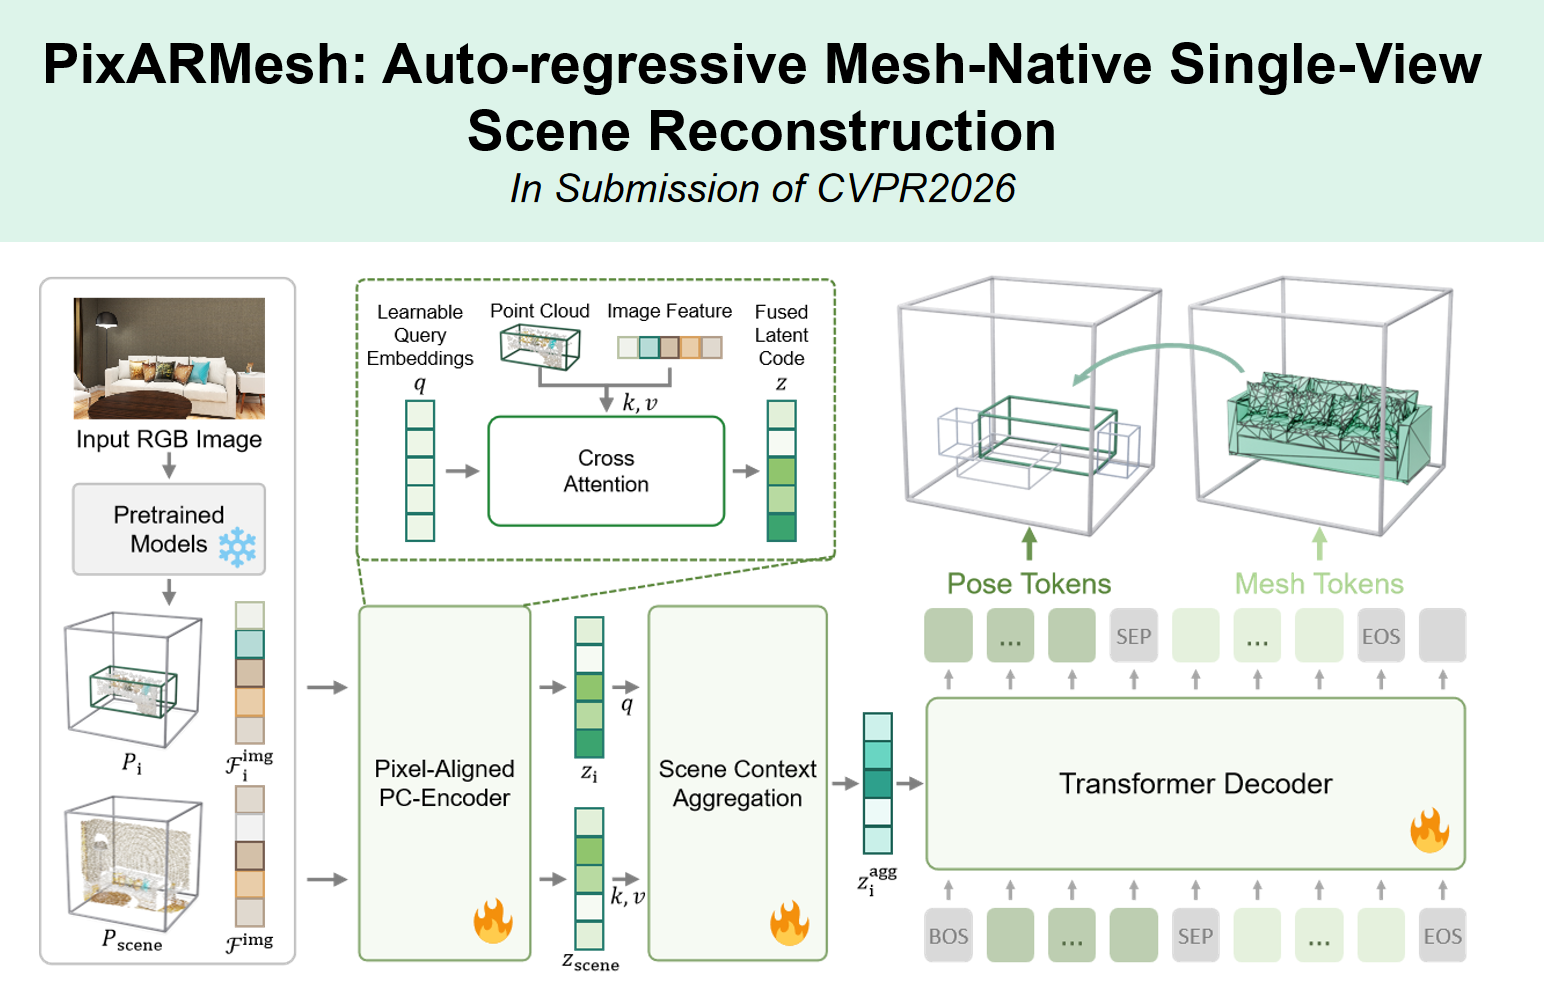
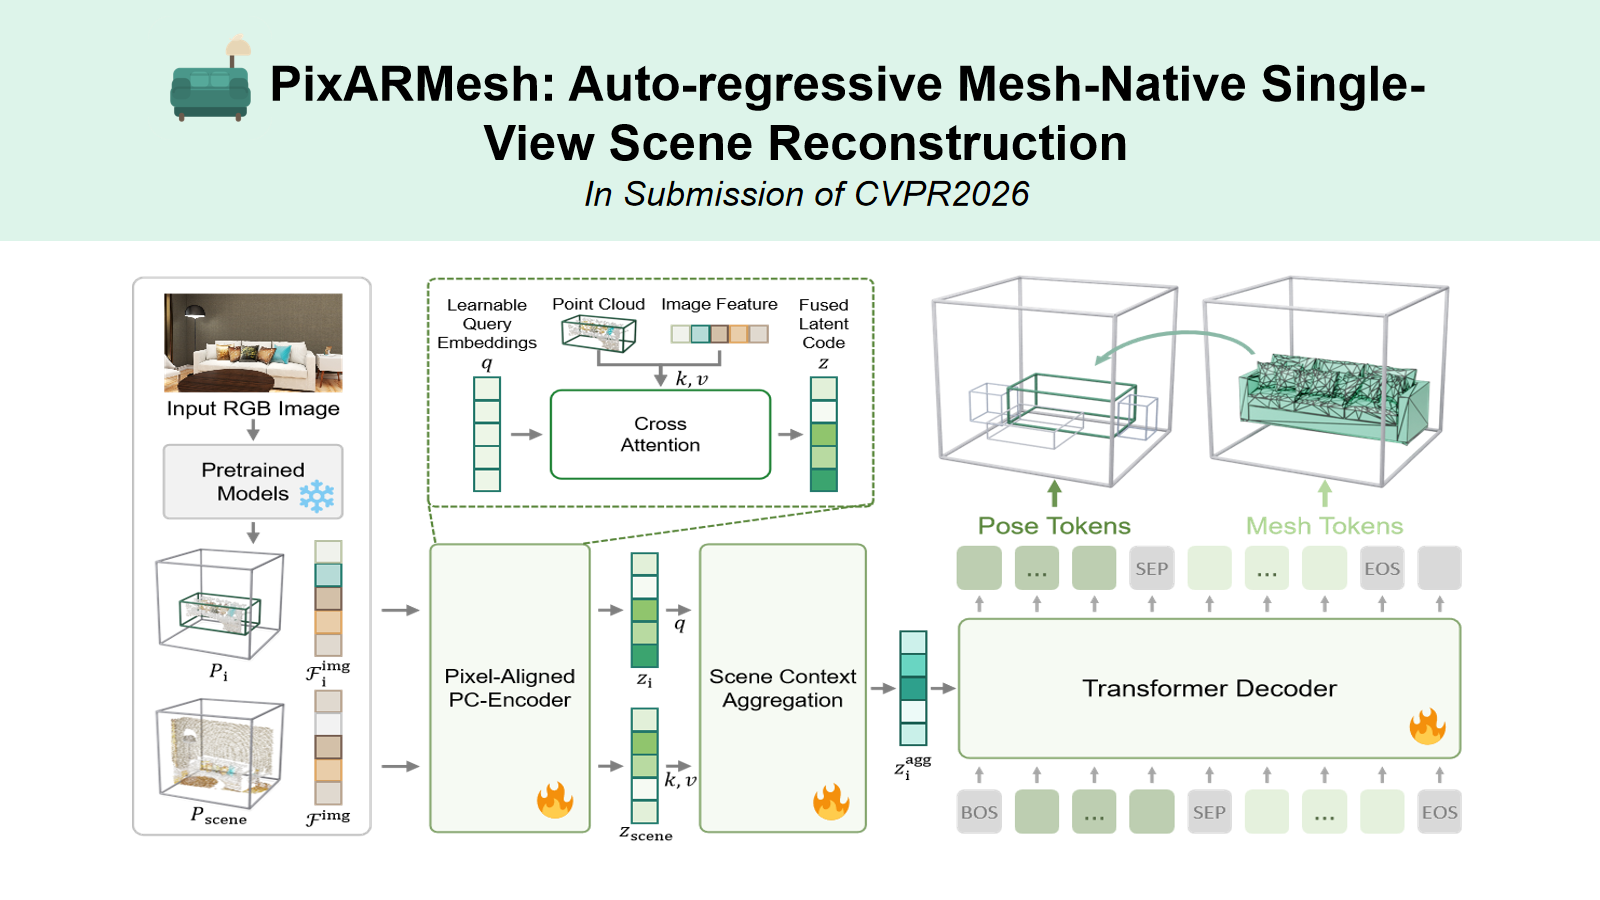
feat(about.md) change the poster ratio

Changed region(s): [[0.0, 0.0311, 1.0, 0.9644]]

diff --git a/_pages/about.md b/_pages/about.md
@@ -96,7 +96,7 @@ Research Projects
    </div>
    <div style="flex: 0 0 50%;">
        <h3 style="margin-top: 0;">
-           <img src="images/PixARMesh_logo.svg" style="height: 1.5em; width: 1.5em; vertical-align: -0.3em; margin-right: 2px;">
+           <img src="images/PixARMesh_logo.png" style="height: 1.5em; width: 1.5em; vertical-align: -0.3em; margin-right: 2px;">
            <strong>PixARMesh: Autoregressive Mesh-Native Single-View Scene Reconstruction</strong>
        </h3>
        <a href="https://onehfr.github.io/" target="_blank"><strong>Hongrui Wu*</strong></a>, <a href="https://openreview.net/profile?id=~Sohyun_Yoo1" target="_blank">Sohyun Yoo*</a>, <a href="https://xzhang.dev/" target="_blank">Xiang Zhang*</a>, <a href="https://scholar.google.com/citations?user=hoZesOwAAAAJ&hl=en" target="_blank">Chuan Li</a>, <a href="http://www.stat.ucla.edu/~jxie/" target="_blank">Jianwen Xie</a>, <a href="https://pages.ucsd.edu/~ztu/" target="_blank">Zhuowen Tu</a>
